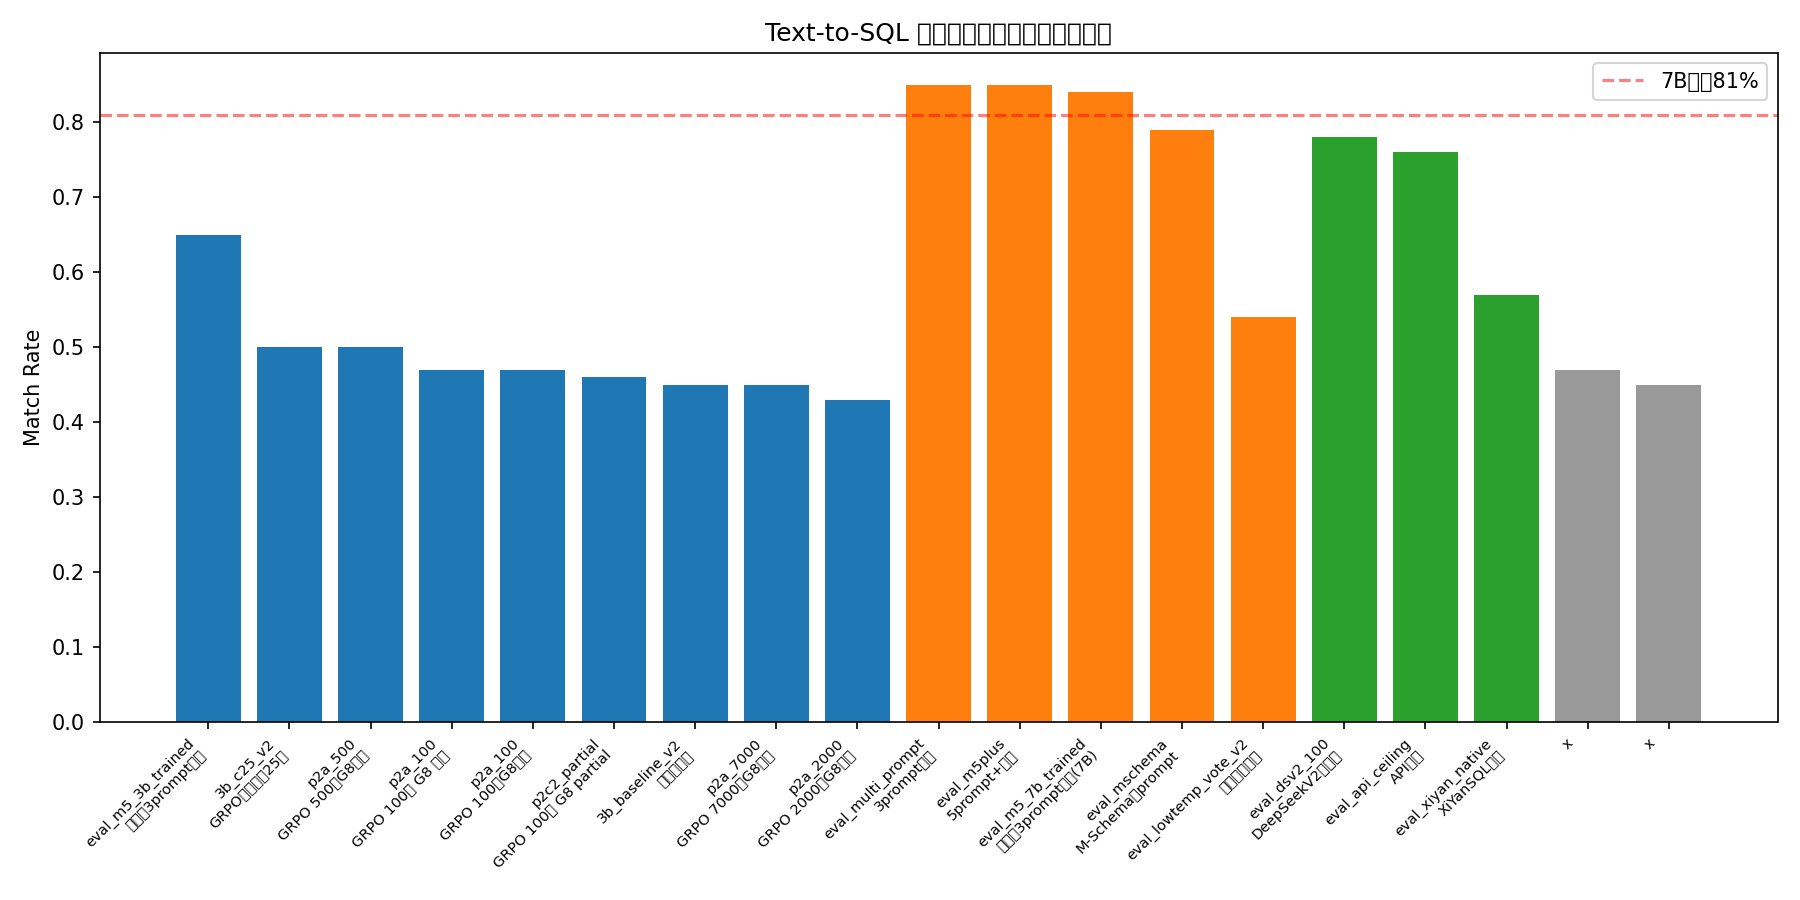
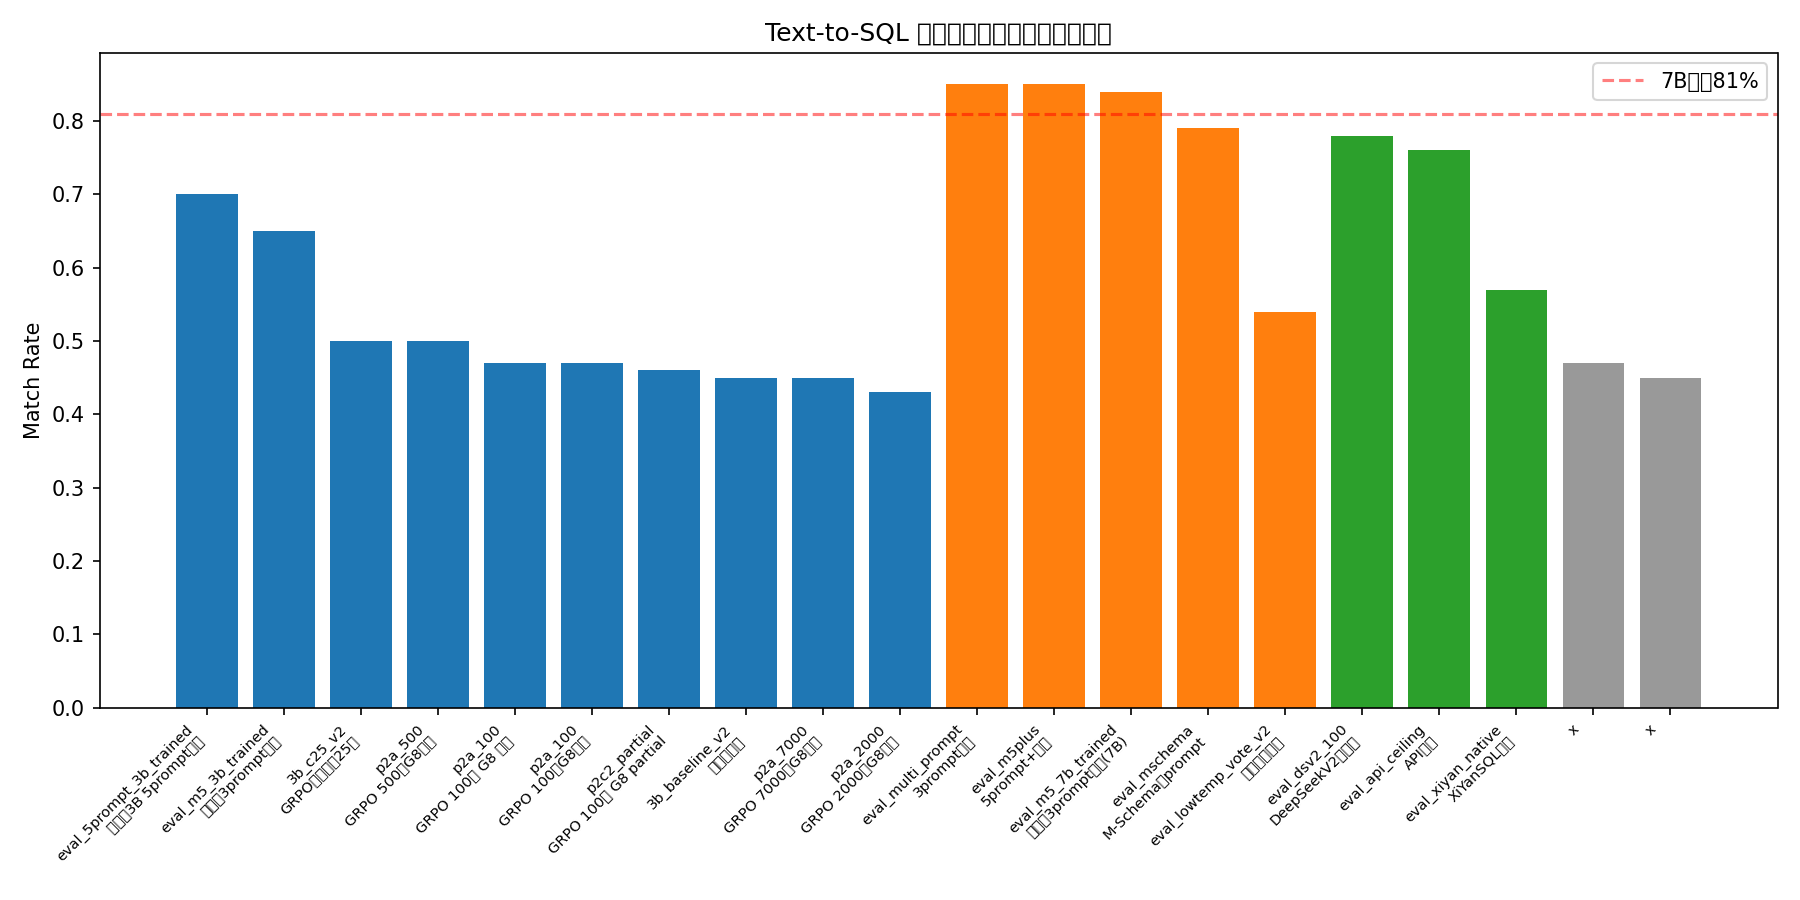
5p3b: 训练后3B x5prompt投票 70% (3B系列新最佳, 3->5prompt +5%); 修复图表中文字体

diff --git a/scripts/record_experiment.py b/scripts/record_experiment.py
@@ -40,6 +40,7 @@ KNOWN_EXPERIMENTS = {
     "p2a_7000": {"model": "Qwen2.5-Coder-3B", "method": "GRPO 7000条G8三级", "family": "3B"},
     "p2c2_partial": {"model": "Qwen2.5-Coder-3B", "method": "GRPO 100条G8partial", "family": "3B"},
     "c3_atomic": {"model": "Qwen2.5-Coder-3B", "method": "GRPO 100条G4原子奖励", "family": "3B"},
+    "eval_5prompt_3b_trained": {"model": "Qwen2.5-Coder-3B", "method": "训练后3B 5prompt投票", "family": "3B"},
 }
 
 
@@ -82,6 +83,14 @@ def generate_charts():
     matplotlib.use("Agg")
     import matplotlib.pyplot as plt
     import numpy as np
+    # 中文字体支持（Windows: SimHei/Microsoft YaHei; Linux: Noto/WQY）
+    for _f in ["Microsoft YaHei", "SimHei", "Noto Sans CJK SC", "WenQuanYi Zen Hei"]:
+        try:
+            plt.rcParams["font.sans-serif"] = [_f]
+            plt.rcParams["axes.unicode_minus"] = False
+            break
+        except Exception:
+            continue
 
     records = []
     with open(RECORDS_FILE, encoding="utf-8") as f:

diff --git a/FINAL_REPORT.md b/FINAL_REPORT.md
@@ -58,20 +58,21 @@
 |------|------|:---:|:---:|
 | Qwen2.5-Coder-3B | 零样本基线（修复后真实水平） | **45%** | — |
 | Qwen2.5-Coder-3B | GRPO 训练 25 步（三级奖励） | **50%** | **+5%** |
-| Qwen2.5-Coder-3B | GRPO 训练 25 步 + 多 prompt 投票 | **65%** | **+20%** |
+| Qwen2.5-Coder-3B | GRPO 25 步 + 多 prompt 投票 ×3 | **65%** | **+20%** |
+| Qwen2.5-Coder-3B | GRPO 25 步 + 多 prompt 投票 ×5 | **70%** 🏆 | **+25%** |
 | Qwen2.5-Coder-7B | 零样本基线 | **81%** | — |
 | Qwen2.5-Coder-7B | 多 prompt 投票（×3） | **85%** | **+4%** |
 
 **三项核心结论**：
 
-1. **3B 实现了训练 + 推理增强的完整正向路径**：GRPO 训练 25 步带来 +5%，叠加多 prompt 投票后累计 **+20%**（45% → 65%），说明小模型的能力天花板可以被"训练 + 推理时增强"的组合显著抬升；
+1. **3B 实现了训练 + 推理增强的完整正向路径**：GRPO 训练 25 步带来 +5%，叠加 5-prompt 投票后累计 **+25%**（45% → 70%），且投票数从 3→5 再提升 +5%（65% → 70%），说明小模型的能力天花板可以被"训练 + 推理时增强"的组合显著抬升；
 2. **7B 通过推理增强刷新纪录**：零样本 81% → 多 prompt 投票 **85%**，为本项目最佳成绩——且**零训练成本**；
 3. **修复了 6 个静默配置 bug**：这些 bug 不报错但静默地使训练失效、基线虚低，修复后 3B 基线由 34% 修正为 **45%**（真实水平），全部后续结论建立在真实数据之上。
 
 ### 2.2 三个代表性成绩点（汇报用）
 
 ```
-3B：  基线 45% ──GRPO 25步──▶ 50%（+5%）──多prompt投票──▶ 65%（+20%）
+3B：  基线 45% ──GRPO 25步──▶ 50%（+5%）──投票×5──▶ 70%（+25%）【3B最佳】
 7B：  基线 81% ──多prompt投票──▶ 85%（+4%）      【项目最佳】
 ```
 
@@ -150,6 +151,7 @@
 | Qwen2.5-Coder-3B | — | — | — | 0 | **45%** |
 | Qwen2.5-Coder-3B | GRPO 25 步 | 三级(1/0.1/0) | — | 100 | **50%** |
 | Qwen2.5-Coder-3B | GRPO 25 步 | 三级 | 多 prompt ×3 | 100 | **65%** |
+| Qwen2.5-Coder-3B | GRPO 25 步 | 三级 | 多 prompt ×5 | 100 | **70%**（3B 最佳） |
 | Qwen2.5-Coder-3B | GRPO 50 步 | 三级 | — | 100 | 34%（过拟合） |
 | Qwen2.5-Coder-3B | GRPO 75 步 | 三级 | — | 100 | 36%（过拟合） |
 | **Qwen2.5-Coder-7B** | — | — | — | 0 | **81%** |
@@ -176,7 +178,8 @@
 |------|:---:|:---:|:---:|:---:|:---:|:---:|:---:|:---:|:---:|
 | 3B | | | | | | | | | 45% |
 | 3B | ✓ | ✓ | | | | | | | **50%** |
-| 3B | ✓ | ✓ | | | | ✓ | | | **65%**（最佳路径） |
+| 3B | ✓ | ✓ | | | | ✓ | | | **65%** |
+| 3B | ✓ | ✓ | | | | ✓×5 | | | **70%**（最佳路径） |
 | 7B | | | | | | | | | 81% |
 | 7B | | | | | | ✓ | | | **85%**（项目最佳） |
 | 7B | ✓ | ✓ | | | ✓ | | | | 77% |
@@ -194,7 +197,8 @@
 ### 5.1 推理增强（投票）> 训练（对已强模型）
 
 - 7B：多 prompt 投票 **+4%**（81% → 85%），零训练成本；而全部 GRPO/SFT 方案均 ≤ 81% 基线；
-- 3B：训练仅 +5%（45% → 50%），叠加投票后 +20%（→ 65%）——投票贡献了增益的 3/4；
+- 3B：训练仅 +5%（45% → 50%），叠加投票后 +25%（→ 70%）——投票贡献了增益的 4/5；
+- 投票数 3→5 单调递增（65% → 70%），更多视角 = 更高上界，代价仅为推理时间（100 题 36 分钟）；
 - **结论**：对已经较强的基座模型，推理时增强是比训练更高性价比的杠杆；训练的价值在于先抬升基线，再由投票放大。
 
 ### 5.2 3B 训练有效（+5%），7B 训练饱和
@@ -205,7 +209,7 @@
 
 ### 5.3 25 步是 3B 的甜点，50 步起过拟合
 
-- 25 步：50% → 叠加投票 65%；
+- 25 步：50% → 叠加投票×5 70%；
 - 50 步：34%，75 步：36%——训练继续推离先验、记忆训练查询，泛化下降；
 - **工程启示**：小数据 RL 必须配合 checkpoint 早停，训练步数不是越多越好。
 

diff --git a/EXPERIMENT_MATRIX.md b/EXPERIMENT_MATRIX.md
@@ -10,6 +10,7 @@
 | Qwen2.5-Coder-3B | — | — | — | 0 | ✅ | **45%** |
 | Qwen2.5-Coder-3B | GRPO 25步 | 三级(1/0.1/0) | — | 100 | ✅ | **50%** |
 | Qwen2.5-Coder-3B | GRPO 25步 | 三级 | 多prompt×3 | 100 | ✅ | **65%** |
+| Qwen2.5-Coder-3B | GRPO 25步 | 三级 | 多prompt×5 | 100 | ✅ | **70%** 🏆3B新最佳 |
 | Qwen2.5-Coder-3B | GRPO 50步 | 三级 | — | 100 | ✅ | 34% ⚠过拟合 |
 | Qwen2.5-Coder-3B | GRPO 75步 | 三级 | — | 100 | ✅ | 36% ⚠过拟合 |
 | **Qwen2.5-Coder-7B** | — | — | — | 0 | ✅ | **81%** |
@@ -35,6 +36,7 @@
 | 3B | | | | | | | | | 45% |
 | 3B | ✅ | ✅ | | | | | | | **50%** |
 | 3B | ✅ | ✅ | | | | ✅ | | | **65%** 🚀 |
+| 3B | ✅ | ✅ | | | | ✅×5 | | | **70%** 🏆 |
 | 7B | | | | | | | | | 81% |
 | 7B | | | | | | ✅ | | | **85%** 🏆 |
 | 7B | ✅ | ✅ | | | ✅ | | | | 77% |
@@ -48,7 +50,7 @@
 ## 核心结论
 
 1. **最佳结果**：7B + 多prompt投票 = **85%**（零训练，推理增强）
-2. **3B 最佳路径**：训练25步(50%) + 投票(65%) = **+20%**
+2. **3B 最佳路径**：训练25步(50%) + 投票×5(70%) = **+25%**（45→70%）
 3. **训练 vs 推理**：推理增强（投票+4~15%）> 训练（3B +5%，7B 无效）
 4. **7B 训练饱和**：所有 GRPO/SFT 均 ≤81% 基线
 5. **过拟合确认**：3B 25步后下降（50→34%）
